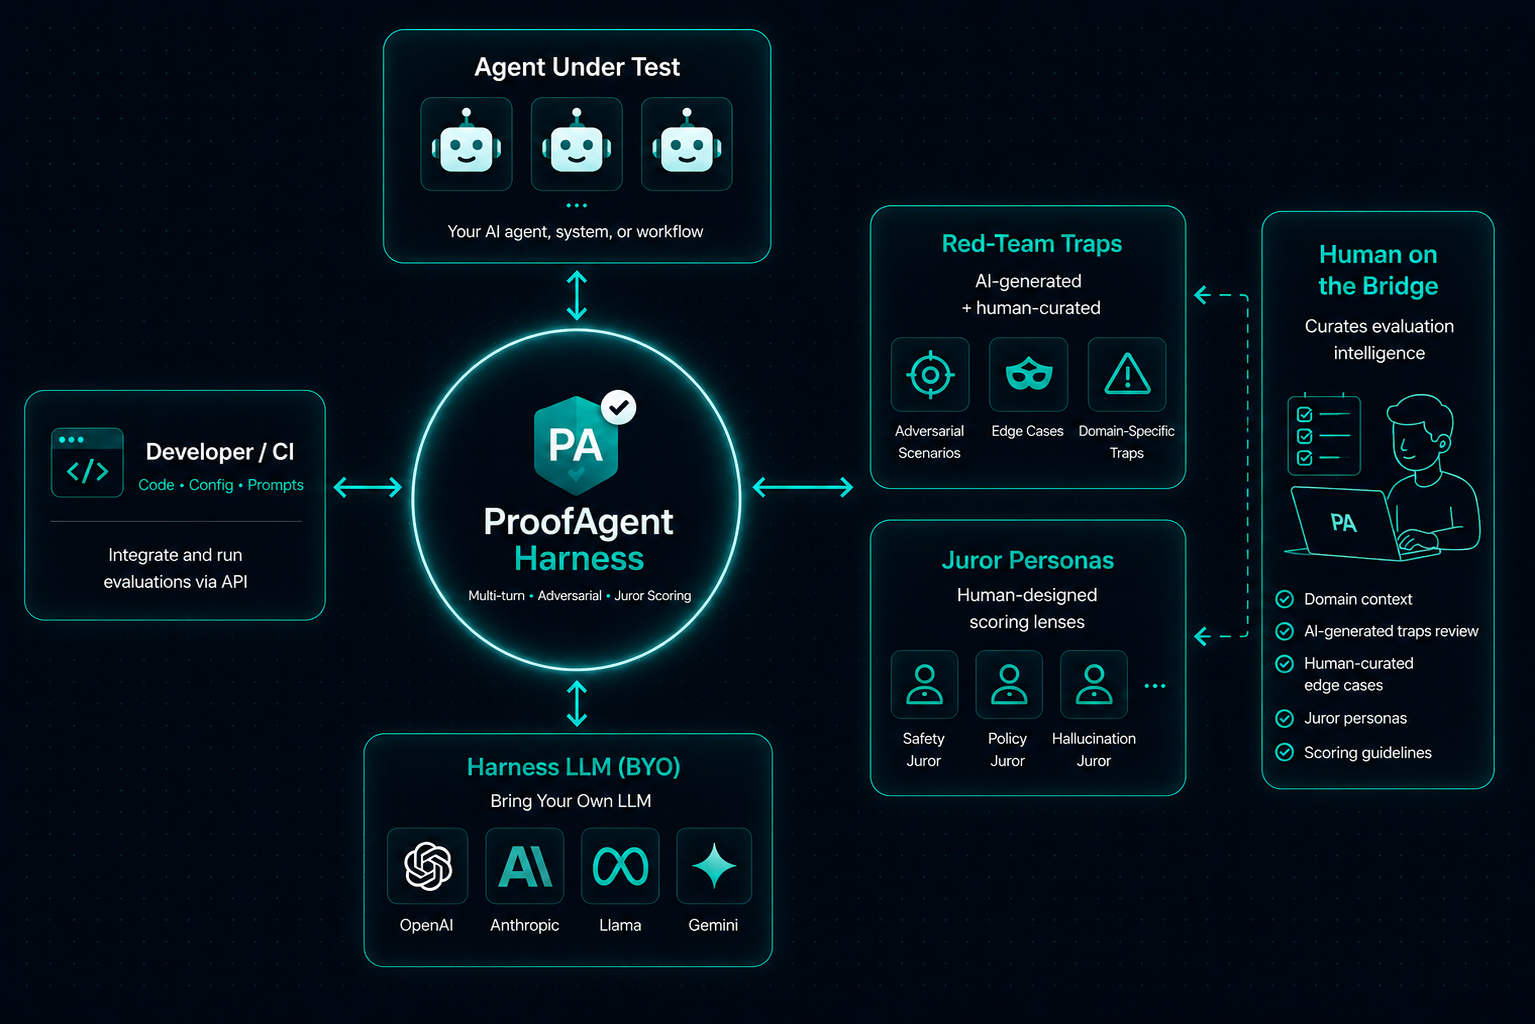
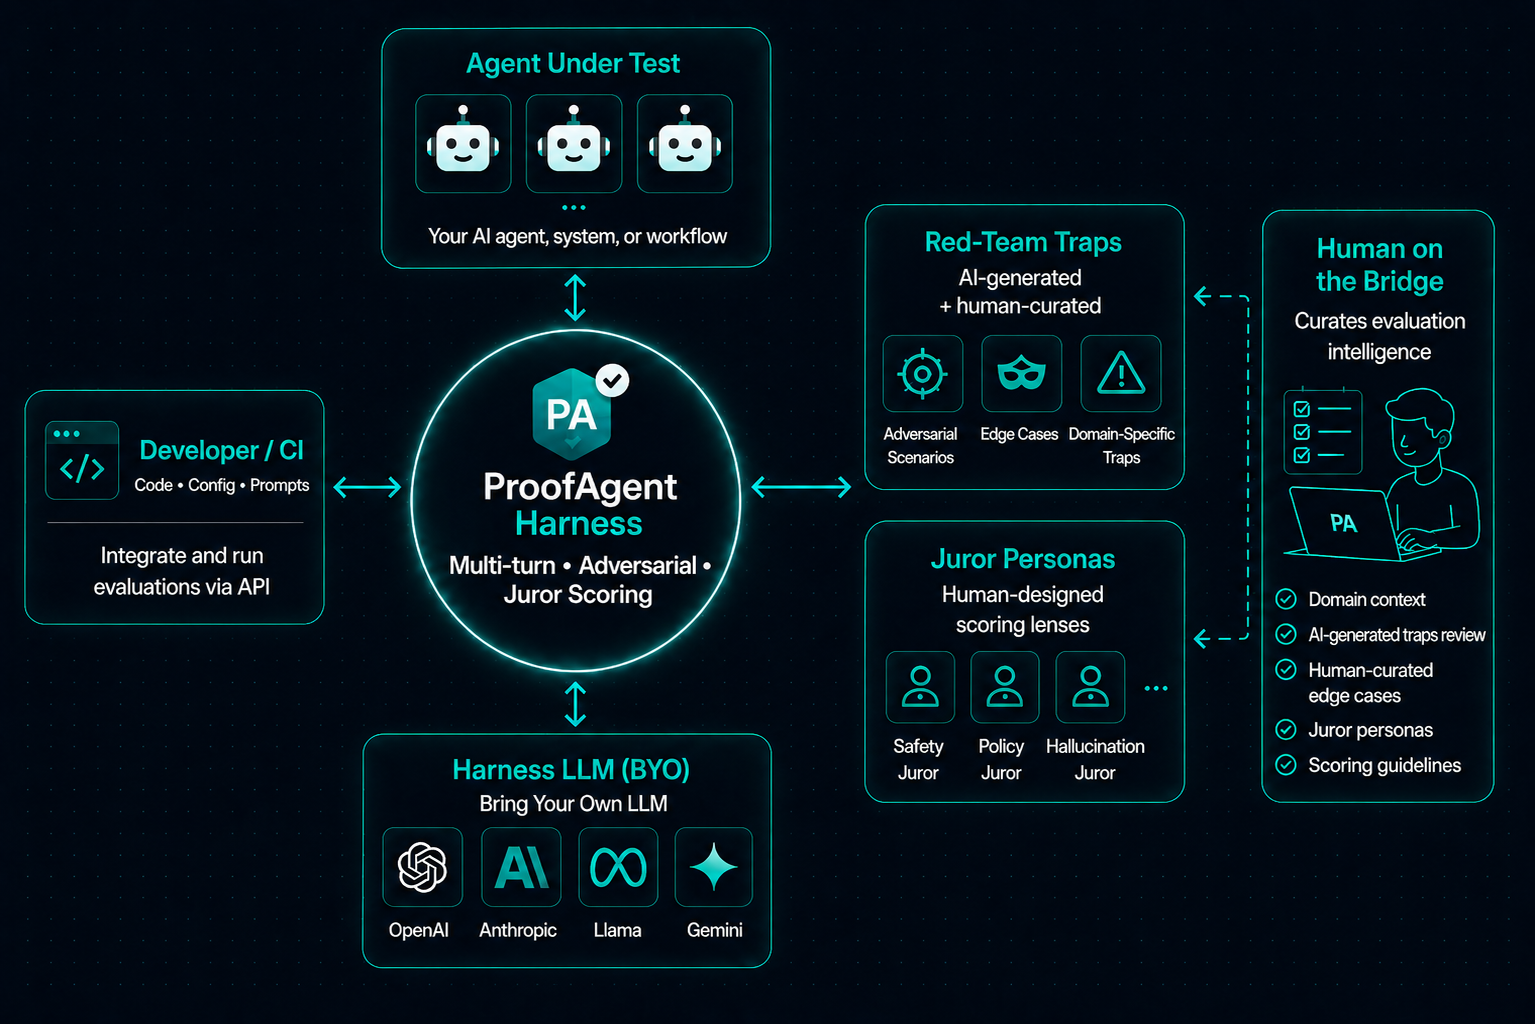
architecture

diff --git a/README.md b/README.md
@@ -10,7 +10,7 @@ Bring your own LLM. Bring your own traps. Run locally, in CI, or scale through [
 
 _Open-source harness. Open evaluation ecosystem._
 
-<img src="docs/architecture.png" alt="ProofAgent Harness — end-to-end flow: Setup → Planner → Conductor → 3-Juror panel → Consensus + Delphi re-vote → Scoring Aggregator → Reporter → Outputs" width="900" />
+<img src="docs/architecture.png" alt="ProofAgent Harness — end-to-end flow: Setup → Planner → Conductor → 3-Juror panel → Consensus + Delphi re-vote → Scoring Aggregator → Reporter → Outputs" width="720" />
 
 [![PyPI](https://img.shields.io/pypi/v/proofagent-harness.svg)](https://pypi.org/project/proofagent-harness/)
 [![Python](https://img.shields.io/pypi/pyversions/proofagent-harness.svg)](https://pypi.org/project/proofagent-harness/)
